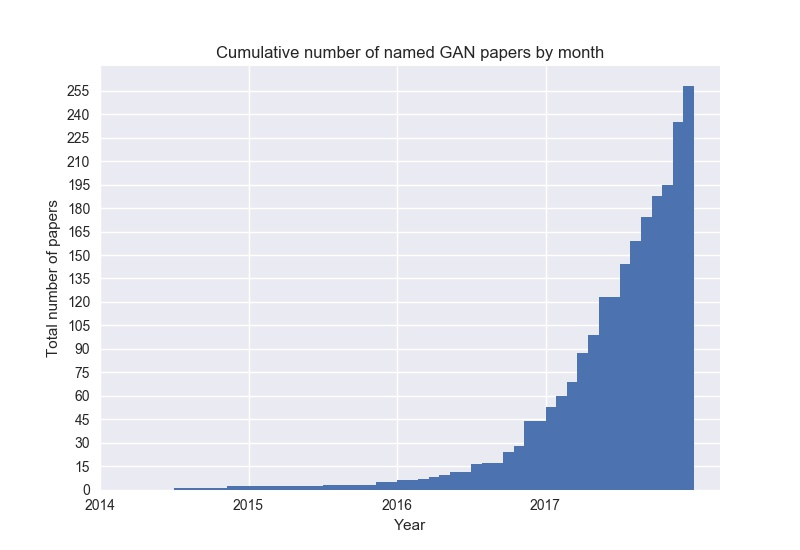
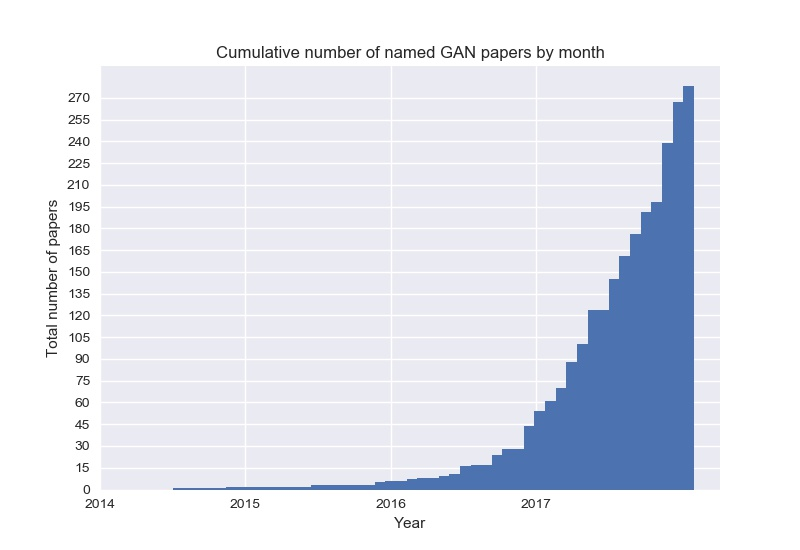
add AdvGAN, APE-GAN, CFG-GAN, CipherGAN, ComboGAN, Cross-GAN, D-GAN, ...
Added 20 new GANs:
+ AdvGAN
+ Adversarial Perturbation Elimination with GAN (APE-GAN)
+ composite functional gradient learning of GAN  (CFG-GAN)
+ CipherGAN
+ ComboGAN
+ Cross-GAN
+ Differential GAN (D-GAN)
+ differential private GAN (dp-GAN)
+ ecommerceGAN (ecGAN)
+ FusedGAN
+ GraspGAN
+ Latent Classifier GAN (LAC-GAN)
+ Multi-Stage GAN (MS-GAN)
+ Semantic-aware Grad-GAN (SG-GAN)
+ SketchyGAN
+ Super Resolution Perceptual GAN (SRPGAN)
+ Restorative Adversarial Network (RAN)
+ textGAN
+ Underwater GAN (UGAN)
+ word embedding GAN (weGAN)

diff --git a/README.md b/README.md
@@ -22,6 +22,7 @@ Check out [Deep Hunt](https://deephunt.in) - my weekly AI newsletter for this re
 * acGAN - [Face Aging With Conditional Generative Adversarial Networks](https://arxiv.org/abs/1702.01983) 
 * ACtuAL - [ACtuAL: Actor-Critic Under Adversarial Learning](https://arxiv.org/abs/1711.04755) 
 * AdaGAN - [AdaGAN: Boosting Generative Models](https://arxiv.org/abs/1701.02386v1) 
+* AdvGAN - [Generating adversarial examples with adversarial networks](https://arxiv.org/abs/1801.02610) 
 * AE-GAN - [AE-GAN: adversarial eliminating with GAN](https://arxiv.org/abs/1707.05474) 
 * AEGAN - [Learning Inverse Mapping by Autoencoder based Generative Adversarial Nets](https://arxiv.org/abs/1703.10094) 
 * AffGAN - [Amortised MAP Inference for Image Super-resolution](https://arxiv.org/abs/1610.04490) 
@@ -30,6 +31,7 @@ Check out [Deep Hunt](https://deephunt.in) - my weekly AI newsletter for this re
 * AlignGAN - [AlignGAN: Learning to Align Cross-Domain Images with Conditional Generative Adversarial Networks](https://arxiv.org/abs/1707.01400) 
 * AM-GAN - [Activation Maximization Generative Adversarial Nets](https://arxiv.org/abs/1703.02000) 
 * AnoGAN - [Unsupervised Anomaly Detection with Generative Adversarial Networks to Guide Marker Discovery](https://arxiv.org/abs/1703.05921v1) 
+* APE-GAN - [APE-GAN: Adversarial Perturbation Elimination with GAN](https://arxiv.org/abs/1707.05474) 
 * ARAE - [Adversarially Regularized Autoencoders for Generating Discrete Structures](https://arxiv.org/abs/1706.04223) ([github](https://github.com/jakezhaojb/ARAE))
 * ARDA - [Adversarial Representation Learning for Domain Adaptation](https://arxiv.org/abs/1707.01217) 
 * ARIGAN - [ARIGAN: Synthetic Arabidopsis Plants using Generative Adversarial Network](https://arxiv.org/abs/1709.00938) 
@@ -55,12 +57,15 @@ Check out [Deep Hunt](https://deephunt.in) - my weekly AI newsletter for this re
 * CausalGAN - [CausalGAN: Learning Causal Implicit Generative Models with Adversarial Training](https://arxiv.org/abs/1709.02023) 
 * CC-GAN - [Semi-Supervised Learning with Context-Conditional Generative Adversarial Networks](https://arxiv.org/abs/1611.06430) ([github](https://github.com/edenton/cc-gan))
 * CDcGAN - [Simultaneously Color-Depth Super-Resolution with Conditional Generative Adversarial Network](https://arxiv.org/abs/1708.09105) 
+* CFG-GAN - [Composite Functional Gradient Learning of Generative Adversarial Models](https://arxiv.org/abs/1801.06309) 
 * CGAN - [Conditional Generative Adversarial Nets](https://arxiv.org/abs/1411.1784) 
 * CGAN - [Controllable Generative Adversarial Network](https://arxiv.org/abs/1708.00598) 
 * Chekhov GAN - [An Online Learning Approach to Generative Adversarial Networks](https://arxiv.org/abs/1706.03269) 
+* CipherGAN - [Unsupervised Cipher Cracking Using Discrete GANs](https://arxiv.org/abs/1801.04883) 
 * CM-GAN - [CM-GANs: Cross-modal Generative Adversarial Networks for Common Representation Learning](https://arxiv.org/abs/1710.05106) 
 * CoAtt-GAN - [Are You Talking to Me? Reasoned Visual Dialog Generation through Adversarial Learning](https://arxiv.org/abs/1711.07613) 
 * CoGAN - [Coupled Generative Adversarial Networks](https://arxiv.org/abs/1606.07536v2) 
+* ComboGAN - [ComboGAN: Unrestrained Scalability for Image Domain Translation](https://arxiv.org/abs/1712.06909) ([github](https://github.com/AAnoosheh/ComboGAN))
 * ConceptGAN - [Learning Compositional Visual Concepts with Mutual Consistency](https://arxiv.org/abs/1711.06148) 
 * Conditional cycleGAN - [Conditional CycleGAN for Attribute Guided Face Image Generation](https://arxiv.org/abs/1705.09966) 
 * constrast-GAN - [Generative Semantic Manipulation with Contrasting GAN](https://arxiv.org/abs/1708.00315) 
@@ -68,10 +73,12 @@ Check out [Deep Hunt](https://deephunt.in) - my weekly AI newsletter for this re
 * Coulomb GAN - [Coulomb GANs: Provably Optimal Nash Equilibria via Potential Fields](https://arxiv.org/abs/1708.08819) 
 * Cover-GAN - [Generative Steganography with Kerckhoffs' Principle based on Generative Adversarial Networks](https://arxiv.org/abs/1711.04916) 
 * Cramèr GAN  - [The Cramer Distance as a Solution to Biased Wasserstein Gradients](https://arxiv.org/abs/1705.10743) 
+* Cross-GAN - [Crossing Generative Adversarial Networks for Cross-View Person Re-identification](https://arxiv.org/abs/1801.01760) 
 * crVAE-GAN - [Channel-Recurrent Variational Autoencoders](https://arxiv.org/abs/1706.03729) 
 * CS-GAN - [Improving Neural Machine Translation with Conditional Sequence Generative Adversarial Nets](https://arxiv.org/abs/1703.04887) 
 * CVAE-GAN - [CVAE-GAN: Fine-Grained Image Generation through Asymmetric Training](https://arxiv.org/abs/1703.10155) 
 * CycleGAN - [Unpaired Image-to-Image Translation using Cycle-Consistent Adversarial Networks](https://arxiv.org/abs/1703.10593) ([github](https://github.com/junyanz/CycleGAN))
+* D-GAN - [Differential Generative Adversarial Networks: Synthesizing Non-linear Facial Variations with Limited Number of Training Data](https://arxiv.org/abs/1711.10267) 
 * D2GAN - [Dual Discriminator Generative Adversarial Nets](http://arxiv.org/abs/1709.03831) 
 * DAGAN - [Data Augmentation Generative Adversarial Networks](https://arxiv.org/abs/1711.04340) 
 * DAN - [Distributional Adversarial Networks](https://arxiv.org/abs/1706.09549) 
@@ -83,6 +90,7 @@ Check out [Deep Hunt](https://deephunt.in) - my weekly AI newsletter for this re
 * DistanceGAN - [One-Sided Unsupervised Domain Mapping](https://arxiv.org/abs/1706.00826) 
 * DM-GAN - [Dual Motion GAN for Future-Flow Embedded Video Prediction](https://arxiv.org/abs/1708.00284) 
 * DNA-GAN - [DNA-GAN: Learning Disentangled Representations from Multi-Attribute Images](https://arxiv.org/abs/1711.05415) 
+* dp-GAN - [Differentially Private Releasing via Deep Generative Model](https://arxiv.org/abs/1801.01594) 
 * DR-GAN - [Representation Learning by Rotating Your Faces](https://arxiv.org/abs/1705.11136) 
 * DRAGAN - [How to Train Your DRAGAN](https://arxiv.org/abs/1705.07215) ([github](https://github.com/kodalinaveen3/DRAGAN))
 * DRPAN - [Discriminative Region Proposal Adversarial Networks for High-Quality Image-to-Image Translation](https://arxiv.org/abs/1711.09554) 
@@ -92,6 +100,7 @@ Check out [Deep Hunt](https://deephunt.in) - my weekly AI newsletter for this re
 * Dualing GAN - [Dualing GANs](https://arxiv.org/abs/1706.06216) 
 * Dynamics Transfer GAN - [Dynamics Transfer GAN: Generating Video by Transferring Arbitrary Temporal Dynamics from a Source Video to a Single Target Image](https://arxiv.org/abs/1712.03534) 
 * EBGAN - [Energy-based Generative Adversarial Network](https://arxiv.org/abs/1609.03126v4) 
+* ecGAN - [eCommerceGAN : A Generative Adversarial Network for E-commerce](https://arxiv.org/abs/1801.03244) 
 * ED//GAN - [Stabilizing Training of Generative Adversarial Networks through Regularization](https://arxiv.org/abs/1705.09367) 
 * EGAN - [Enhanced Experience Replay Generation for Efficient Reinforcement Learning](https://arxiv.org/abs/1705.08245) 
 * EnergyWGAN - [Energy-relaxed Wassertein GANs (EnergyWGAN): Towards More Stable and High Resolution Image Generation](https://arxiv.org/abs/1712.01026) 
@@ -106,6 +115,7 @@ Check out [Deep Hunt](https://deephunt.in) - my weekly AI newsletter for this re
 * Flow-GAN - [Flow-GAN: Bridging implicit and prescribed learning in generative models](https://arxiv.org/abs/1705.08868) 
 * FSEGAN - [Exploring Speech Enhancement with Generative Adversarial Networks for Robust Speech Recognition](https://arxiv.org/abs/1711.05747) 
 * FTGAN - [Hierarchical Video Generation from Orthogonal Information: Optical Flow and Texture](https://arxiv.org/abs/1711.09618) 
+* FusedGAN - [Semi-supervised FusedGAN for Conditional Image Generation](https://arxiv.org/abs/1801.05551) 
 * FusionGAN - [Learning to Fuse Music Genres with Generative Adversarial Dual Learning](https://arxiv.org/abs/1712.01456) 
 * G2-GAN - [Geometry Guided Adversarial Facial Expression Synthesis](https://arxiv.org/abs/1712.03474) 
 * GAGAN - [GAGAN: Geometry-Aware Generative Adverserial Networks](https://arxiv.org/abs/1712.00684) 
@@ -131,6 +141,7 @@ Check out [Deep Hunt](https://deephunt.in) - my weekly AI newsletter for this re
 * GP-GAN - [GP-GAN: Gender Preserving GAN for Synthesizing Faces from Landmarks](https://arxiv.org/abs/1710.00962) 
 * GPU - [A generative adversarial framework for positive-unlabeled classification](https://arxiv.org/abs/1711.08054) 
 * GRAN - [Generating images with recurrent adversarial networks](https://arxiv.org/abs/1602.05110) ([github](https://github.com/jiwoongim/GRAN))
+* GraspGAN - [Using Simulation and Domain Adaptation to Improve Efficiency of Deep Robotic Grasping](https://arxiv.org/abs/1709.07857) 
 * HAN - [Chinese Typeface Transformation with Hierarchical Adversarial Network](https://arxiv.org/abs/1711.06448) 
 * HP-GAN - [HP-GAN: Probabilistic 3D human motion prediction via GAN](https://arxiv.org/abs/1711.09561) 
 * HR-DCGAN - [High-Resolution Deep Convolutional Generative Adversarial Networks](https://arxiv.org/abs/1711.06491) 
@@ -151,6 +162,7 @@ Check out [Deep Hunt](https://deephunt.in) - my weekly AI newsletter for this re
 * KBGAN - [KBGAN: Adversarial Learning for Knowledge Graph Embeddings](https://arxiv.org/abs/1711.04071) 
 * KGAN - [KGAN: How to Break The Minimax Game in GAN](https://arxiv.org/abs/1711.01744) 
 * l-GAN - [Representation Learning and Adversarial Generation of 3D Point Clouds](https://arxiv.org/abs/1707.02392) 
+* LAC-GAN - [Grounded Language Understanding for Manipulation Instructions Using GAN-Based Classification](https://arxiv.org/abs/1801.05096) 
 * LAGAN - [Learning Particle Physics by Example: Location-Aware Generative Adversarial Networks for Physics Synthesis](https://arxiv.org/abs/1701.05927) 
 * LAPGAN - [Deep Generative Image Models using a Laplacian Pyramid of Adversarial Networks](https://arxiv.org/abs/1506.05751) ([github](https://github.com/facebook/eyescream))
 * LD-GAN - [Linear Discriminant Generative Adversarial Networks](https://arxiv.org/abs/1707.07831) 
@@ -181,6 +193,7 @@ Check out [Deep Hunt](https://deephunt.in) - my weekly AI newsletter for this re
 * MMGAN - [MMGAN: Manifold Matching Generative Adversarial Network for Generating Images](https://arxiv.org/abs/1707.08273) 
 * MoCoGAN - [MoCoGAN: Decomposing Motion and Content for Video Generation](https://arxiv.org/abs/1707.04993) ([github](https://github.com/sergeytulyakov/mocogan))
 * MPM-GAN - [Message Passing Multi-Agent GANs](https://arxiv.org/abs/1612.01294) 
+* MS-GAN - [Temporal Coherency based Criteria for Predicting Video Frames using Deep Multi-stage Generative Adversarial Networks](http://papers.nips.cc/paper/7014-temporal-coherency-based-criteria-for-predicting-video-frames-using-deep-multi-stage-generative-adversarial-networks) 
 * MuseGAN - [MuseGAN: Symbolic-domain Music Generation and Accompaniment with Multi-track Sequential Generative Adversarial Networks](https://arxiv.org/abs/1709.06298) 
 * MV-BiGAN - [Multi-view Generative Adversarial Networks](https://arxiv.org/abs/1611.02019v1) 
 * OptionGAN - [OptionGAN: Learning Joint Reward-Policy Options using Generative Adversarial Inverse Reinforcement Learning](https://arxiv.org/abs/1709.06683) 
@@ -200,6 +213,7 @@ Check out [Deep Hunt](https://deephunt.in) - my weekly AI newsletter for this re
 * PrGAN - [3D Shape Induction from 2D Views of Multiple Objects](https://arxiv.org/abs/1612.05872) 
 * PSGAN - [Learning Texture Manifolds with the Periodic Spatial GAN](http://arxiv.org/abs/1705.06566) 
 * PS²-GAN - [High-Quality Facial Photo-Sketch Synthesis Using Multi-Adversarial Networks](https://arxiv.org/abs/1710.10182) 
+* RAN - [RAN4IQA: Restorative Adversarial Nets for No-Reference Image Quality Assessment](https://arxiv.org/abs/1712.05444) ([github]())
 * RankGAN - [Adversarial Ranking for Language Generation ](https://arxiv.org/abs/1705.11001) 
 * RCGAN - [Real-valued (Medical) Time Series Generation with Recurrent Conditional GANs](https://arxiv.org/abs/1706.02633) 
 * RefineGAN - [Compressed Sensing MRI Reconstruction with Cyclic Loss in Generative Adversarial Networks](https://arxiv.org/abs/1709.00753) 
@@ -217,18 +231,21 @@ Check out [Deep Hunt](https://deephunt.in) - my weekly AI newsletter for this re
 * SeGAN - [SeGAN: Segmenting and Generating the Invisible](https://arxiv.org/abs/1703.10239) 
 * SegAN - [SegAN: Adversarial Network with Multi-scale L1 Loss for Medical Image Segmentation](https://arxiv.org/abs/1706.01805) 
 * SeqGAN - [SeqGAN: Sequence Generative Adversarial Nets with Policy Gradient](https://arxiv.org/abs/1609.05473v5) ([github](https://github.com/LantaoYu/SeqGAN))
+* SG-GAN - [Semantic-aware Grad-GAN for Virtual-to-Real Urban Scene Adaption](https://arxiv.org/abs/1801.01726) ([github](https://github.com/Peilun-Li/SG-GAN))
 * SGAN - [Texture Synthesis with Spatial Generative Adversarial Networks](https://arxiv.org/abs/1611.08207) 
 * SGAN - [Stacked Generative Adversarial Networks](https://arxiv.org/abs/1612.04357v4) ([github](https://github.com/xunhuang1995/SGAN))
 * SGAN - [Steganographic Generative Adversarial Networks](https://arxiv.org/abs/1703.05502) 
 * SGAN - [SGAN: An Alternative Training of Generative Adversarial Networks](https://arxiv.org/abs/1712.02330) 
 * SimGAN - [Learning from Simulated and Unsupervised Images through Adversarial Training](https://arxiv.org/abs/1612.07828) 
 * SketchGAN - [Adversarial Training For Sketch Retrieval](https://arxiv.org/abs/1607.02748) 
+* SketchyGAN - [SketchyGAN: Towards Diverse and Realistic Sketch to Image Synthesis](https://arxiv.org/abs/1801.02753) 
 * SL-GAN - [Semi-Latent GAN: Learning to generate and modify facial images from attributes](https://arxiv.org/abs/1704.02166) 
 * SN-GAN - [Spectral Normalization for Generative Adversarial Networks](https://drive.google.com/file/d/0B8HZ50DPgR3eSVV6YlF3XzQxSjQ/view) ([github](https://github.com/pfnet-research/chainer-gan-lib))
 * Sobolev GAN - [Sobolev GAN](https://arxiv.org/abs/1711.04894) 
-* Softmax-GAN - [Softmax GAN](https://arxiv.org/abs/1704.06191) 
+* Softmax GAN - [Softmax GAN](https://arxiv.org/abs/1704.06191) 
 * Splitting GAN - [Class-Splitting Generative Adversarial Networks](https://arxiv.org/abs/1709.07359) 
 * SRGAN - [Photo-Realistic Single Image Super-Resolution Using a Generative Adversarial Network](https://arxiv.org/abs/1609.04802) 
+* SRPGAN - [SRPGAN: Perceptual Generative Adversarial Network for Single Image Super Resolution](https://arxiv.org/abs/1712.05927) 
 * SS-GAN - [Semi-supervised Conditional GANs](https://arxiv.org/abs/1708.05789) 
 * ss-InfoGAN - [Guiding InfoGAN with Semi-Supervision](https://arxiv.org/abs/1707.04487) 
 * SSGAN - [SSGAN: Secure Steganography Based on Generative Adversarial Networks](https://arxiv.org/abs/1707.01613) 
@@ -242,6 +259,7 @@ Check out [Deep Hunt](https://deephunt.in) - my weekly AI newsletter for this re
 * S^2GAN - [Generative Image Modeling using Style and Structure Adversarial Networks](https://arxiv.org/abs/1603.05631v2) 
 * TAC-GAN - [TAC-GAN - Text Conditioned Auxiliary Classifier Generative Adversarial Network](https://arxiv.org/abs/1703.06412v2) ([github](https://github.com/dashayushman/TAC-GAN))
 * TAN - [Outline Colorization through Tandem Adversarial Networks](https://arxiv.org/abs/1704.08834) 
+* textGAN - [Generating Text via Adversarial Training](https://zhegan27.github.io/Papers/textGAN_nips2016_workshop.pdf) 
 * TextureGAN - [TextureGAN: Controlling Deep Image Synthesis with Texture Patches](https://arxiv.org/abs/1706.02823) 
 * TGAN - [Temporal Generative Adversarial Nets](https://arxiv.org/abs/1611.06624v1) 
 * TGAN - [Tensorizing Generative Adversarial Nets](https://arxiv.org/abs/1710.10772) 
@@ -251,6 +269,7 @@ Check out [Deep Hunt](https://deephunt.in) - my weekly AI newsletter for this re
 * tripletGAN - [TripletGAN: Training Generative Model with Triplet Loss](https://arxiv.org/abs/1711.05084) 
 * TV-GAN - [TV-GAN: Generative Adversarial Network Based Thermal to Visible Face Recognition](https://arxiv.org/abs/1712.02514) 
 * UGACH - [Unsupervised Generative Adversarial Cross-modal Hashing](https://arxiv.org/abs/1712.00358) 
+* UGAN - [Enhancing Underwater Imagery using Generative Adversarial Networks](https://arxiv.org/abs/1801.04011) 
 * Unrolled GAN - [Unrolled Generative Adversarial Networks](https://arxiv.org/abs/1611.02163) ([github](https://github.com/poolio/unrolled_gan))
 * VAE-GAN - [Autoencoding beyond pixels using a learned similarity metric](https://arxiv.org/abs/1512.09300) 
 * VariGAN - [Multi-View Image Generation from a Single-View](https://arxiv.org/abs/1704.04886) 
@@ -263,6 +282,7 @@ Check out [Deep Hunt](https://deephunt.in) - my weekly AI newsletter for this re
 * VIGAN - [VIGAN: Missing View Imputation with Generative Adversarial Networks](https://arxiv.org/abs/1708.06724) 
 * VRAL - [Variance Regularizing Adversarial Learning](https://arxiv.org/abs/1707.00309) 
 * WaterGAN - [WaterGAN: Unsupervised Generative Network to Enable Real-time Color Correction of Monocular Underwater Images](https://arxiv.org/abs/1702.07392v1) 
+* weGAN - [Generative Adversarial Nets for Multiple Text Corpora](https://arxiv.org/abs/1712.09127) 
 * WGAN - [Wasserstein GAN](https://arxiv.org/abs/1701.07875v2) ([github](https://github.com/martinarjovsky/WassersteinGAN))
 * WGAN-GP - [Improved Training of Wasserstein GANs](https://arxiv.org/abs/1704.00028) ([github](https://github.com/igul222/improved_wgan_training))
 * WS-GAN - [Weakly Supervised Generative Adversarial Networks for 3D Reconstruction ](https://arxiv.org/abs/1705.10904) 
